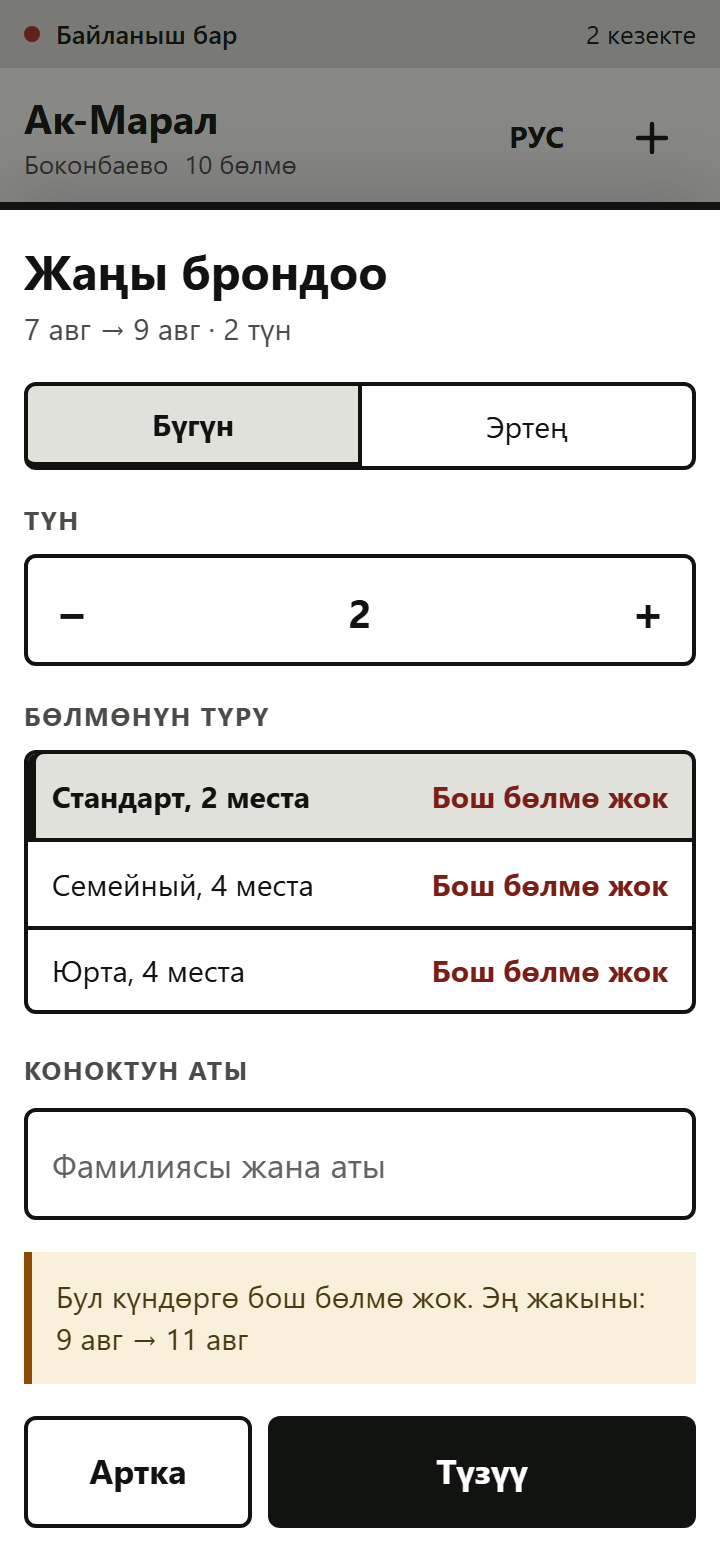
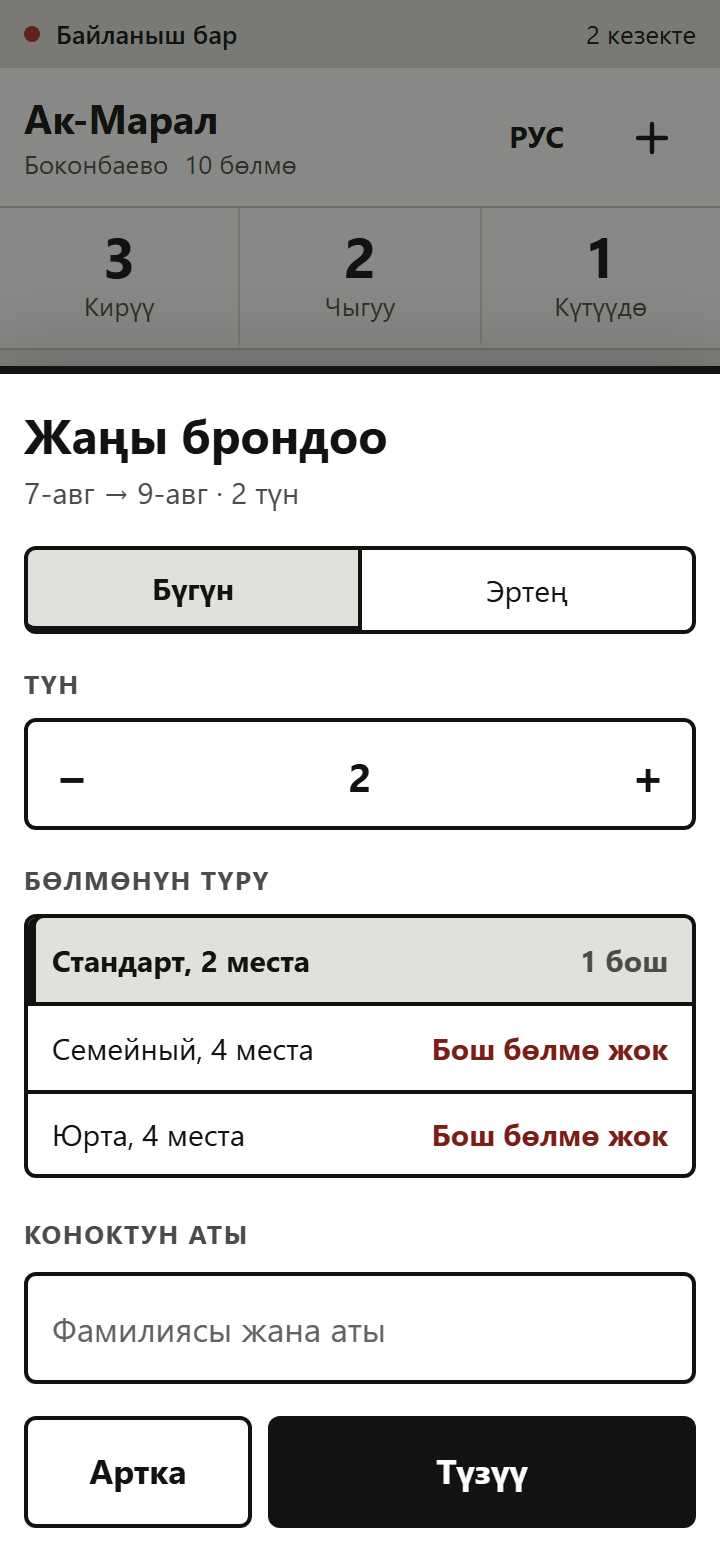
feat(web): довести до состояния, показуемого владельцу
Три вещи, на которых показ непрограммисту разваливался.

1. ФЛАГ NUXT_PUBLIC_SHOW_API_GAPS, по умолчанию ВЫКЛЮЧЕН.
   Блоки, которые нечем реализовать («Документы», «Продлить», «Ранний
   выезд», «Другой номер»), больше не рисуются вовсе. Раньше владелец
   видел серые кнопки с текстом «PATCH /api/bookings/:id не существует» —
   это надпись для разработчика внутри продукта, и читается она как
   поломка. Прятать их дизайн разрешает: когда экран ничего не требует,
   он ничего и не обещает.
   Режим разбора включается NUXT_PUBLIC_SHOW_API_GAPS=1 и работает как
   прежде. Список пробелов в обоих случаях живёт в docs/WEB-API-GAPS.md.

2. ДЕМО-ФИКСТУРЫ: пиковая ночь сдвинута с «завтра» на «послезавтра».
   Шторка создания открывается с умолчанием «сегодня, 2 ночи», то есть
   окном [0, +2). Пока полностью занята была ночь +1, это окно НИКОГДА
   не имело свободных номеров, и главный сценарий продукта с порога
   упирался в «Свободных номеров нет». Теперь окно по умолчанию находит
   номер 4, а пиковая ночь по-прежнему видна в «Ночах» и «Сетке».
   Счётчики «Сегодня» (3 заезда, 2 выезда, 1 ждёт) и стык в номере 3
   сохранены без изменений.

3. ФОРМАТ ДАТЫ ЛОКАЛИЗОВАН. Порядок и разделитель заданы шаблоном в
   словаре (common.datePattern), а не склейкой в коде: в кыргызском число
   пишется с порядковым дефисом, и зашитый пробел выдавал русскую форму
   на кыргызском экране. Теперь «7 авг» и «Пятница, 7 августа» против
   «7-авг» и «Жума, 7-август».
[…]

diff --git a/apps/web/fixtures/demo.ts b/apps/web/fixtures/demo.ts
@@ -21,7 +21,14 @@
  *    · сегодня 1 ожидает решения, 2 выезда, 3 заезда;
  *    · в номере 3 сегодня СТЫК — Ким Мария выезжает, Chen Wei заезжает,
  *      и это не конфликт: [checkIn, checkOut);
- *    · ночь «завтра» занята полностью, 0 свободных из 10.
+ *    · пиковая ночь «послезавтра» занята полностью, 0 свободных из 10.
+ *
+ *  Почему пик именно на послезавтра, а не на завтра. Шторка создания брони
+ *  открывается с умолчанием «сегодня, 2 ночи», то есть окном [0, +2).
+ *  Когда полностью занята была ночь +1, это окно НИКОГДА не имело
+ *  свободных номеров, и главный сценарий продукта с порога упирался
+ *  в «Свободных номеров нет». Пик сдвинут на +2: окно по умолчанию
+ *  находит номер 4, а пиковая ночь по-прежнему видна в «Ночах» и «Сетке».
  *  Даты заданы смещением от сегодняшнего дня, а не константами, иначе
  *  демонстрация протухает на следующие сутки.
  * ───────────────────────────────────────────────────────────────────────── */
@@ -106,20 +113,22 @@ export const demoRoomTypes: RoomType[] = ROOM_TYPES
 type Seed = [string, string, number, number, BookingStatus, string]
 
 const SEED: Seed[] = [
-	["Сыдыков Айбек", "1", -2, 2, "CHECKED_IN", "manual"],
+	["Сыдыков Айбек", "1", -2, 4, "CHECKED_IN", "manual"],
 	// Единственная бронь, ждущая решения. Пришла из Telegram-бота.
 	["Петров Игорь", "2", 0, 1, "HOLD", "bot"],
 	["Осмонов Бакыт", "2", 1, 4, "CONFIRMED", "manual"],
 	// Ким выезжает сегодня, Chen заезжает сегодня в ТОТ ЖЕ номер 3 — стык.
 	["Ким Мария", "3", -3, 0, "CHECKED_IN", "manual"],
 	["Chen Wei", "3", 0, 3, "CONFIRMED", "manual"],
+	// Номер 4 освобождается сегодня и занимается только послезавтра —
+	// это тот самый номер, который находит шторка создания по умолчанию.
 	["Ибраимова Айгүл", "4", -2, 0, "CHECKED_IN", "manual"],
-	["Мамбетова Асель", "4", 1, 5, "CONFIRMED", "manual"],
+	["Мамбетова Асель", "4", 2, 6, "CONFIRMED", "manual"],
 	["Жумабаев Асан", "5", -1, 3, "CHECKED_IN", "manual"],
 	["Ли Наталья", "6", 0, 4, "CONFIRMED", "manual"],
 	["Familie Weber", "7", -1, 5, "CHECKED_IN", "manual"],
-	["Wang Jing", "8", -3, 2, "CHECKED_IN", "manual"],
-	["Асанова Гүлнара", "Ю1", 0, 2, "CONFIRMED", "manual"],
+	["Wang Jing", "8", -3, 4, "CHECKED_IN", "manual"],
+	["Асанова Гүлнара", "Ю1", 0, 4, "CONFIRMED", "manual"],
 	["Токтогулов Эрлан", "Ю2", 1, 4, "CONFIRMED", "manual"],
 ]
 

diff --git a/apps/web/pages/booking/[id].vue b/apps/web/pages/booking/[id].vue
@@ -25,6 +25,9 @@ import { formatMoney } from "~/utils/money"
  */
 const route = useRoute()
 const { t } = useI18n()
+/* Заблокированные API блоки показываются только при разборе. По умолчанию
+   их нет вовсе: экран, который ничего не может, ничего и не обещает. */
+const showGaps = useRuntimeConfig().public.showApiGaps
 const { dateRange } = useDateText()
 const { byId, changeStatus } = useBookings()
 
@@ -123,24 +126,28 @@ async function doCancel() {
         </li>
       </ol>
 
-      <!-- Блок на месте, но нерабочий: признака документа в схеме нет -->
-      <div class="docs">
-        <div class="docs__text">
-          <p class="docs__label">{{ t('card.documents') }}</p>
-          <p class="docs__value">{{ t('card.documentsUnknown') }}</p>
+      <!-- Признака документа в схеме нет: блок виден только при разборе -->
+      <template v-if="showGaps">
+        <div class="docs">
+          <div class="docs__text">
+            <p class="docs__label">{{ t('card.documents') }}</p>
+            <p class="docs__value">{{ t('card.documentsUnknown') }}</p>
+          </div>
+          <NcButton variant="secondary" size="sm" disabled>{{ t('card.mark') }}</NcButton>
         </div>
-        <NcButton variant="secondary" size="sm" disabled>{{ t('card.mark') }}</NcButton>
-      </div>
-      <p class="blocked">{{ t('card.blockedDocuments') }}</p>
+        <p class="blocked">{{ t('card.blockedDocuments') }}</p>
+      </template>
 
       <div class="actions">
-        <NcButton variant="secondary" size="md" align="start" block disabled>
-          {{ t('card.extend') }}
-        </NcButton>
-        <NcButton variant="secondary" size="md" align="start" block disabled>
-          {{ t('card.earlyCheckout') }}
-        </NcButton>
-        <p class="blocked">{{ t('card.blockedDates') }}</p>
+        <template v-if="showGaps">
+          <NcButton variant="secondary" size="md" align="start" block disabled>
+            {{ t('card.extend') }}
+          </NcButton>
+          <NcButton variant="secondary" size="md" align="start" block disabled>
+            {{ t('card.earlyCheckout') }}
+          </NcButton>
+          <p class="blocked">{{ t('card.blockedDates') }}</p>
+        </template>
 
         <NcButton
           v-if="booking.status === 'CHECKED_IN'"

diff --git a/apps/web/composables/useDateText.ts b/apps/web/composables/useDateText.ts
@@ -17,10 +17,19 @@ export function useDateText() {
 		return item ? rt(item as never) : ""
 	}
 
-	/** «7 авг» */
+	/**
+	 * «7 авг» по-русски, «7-авг» по-кыргызски.
+	 *
+	 * Порядок и разделитель заданы ШАБЛОНОМ в словаре, а не склейкой в коде:
+	 * в кыргызском число пишется с порядковым дефисом («7-август»), и
+	 * зашитый пробел выдавал бы русскую форму на кыргызском экране.
+	 */
 	function shortDate(value: string): string {
 		const day = toDay(value)
-		return `${dayNumber(day)} ${fromList("common.monthsShort", monthIndex(day))}`
+		return t("common.datePattern.short", {
+			d: dayNumber(day),
+			m: fromList("common.monthsShort", monthIndex(day)),
+		})
 	}
 
 	/** «7 авг → 9 авг». Стрелка читается как полуинтервал: выехал — освободил. */
@@ -28,12 +37,14 @@ export function useDateText() {
 		return `${shortDate(from)} → ${shortDate(to)}`
 	}
 
-	/** «Пятница, 7 августа» */
+	/** «Пятница, 7 августа» по-русски, «Жума, 7-август» по-кыргызски. */
 	function longDay(value: string): string {
 		const day = toDay(value)
-		const weekday = fromList("common.weekdays", dayOfWeek(day))
-		const month = fromList("common.monthsGenitive", monthIndex(day))
-		return `${weekday}, ${dayNumber(day)} ${month}`
+		return t("common.datePattern.long", {
+			d: dayNumber(day),
+			m: fromList("common.monthsLong", monthIndex(day)),
+			w: fromList("common.weekdays", dayOfWeek(day)),
+		})
 	}
 
 	/** «Пт» */

diff --git a/apps/web/nuxt.config.ts b/apps/web/nuxt.config.ts
@@ -39,6 +39,13 @@ export default defineNuxtConfig({
 			// Включён по умолчанию, пока рядом нет поднятого бэкенда.
 			// Выключение: NUXT_PUBLIC_DEMO=0
 			demo: process.env.NUXT_PUBLIC_DEMO !== "0",
+			// Показывать ли блоки, которые нечем реализовать против текущего
+			// API: «Документы», «Продлить», «Ранний выезд», «Другой номер».
+			// ВЫКЛЮЧЕНО по умолчанию: владелец гостевого дома не должен читать
+			// «PATCH /api/bookings/:id не существует» — он прочтёт это как
+			// поломку. Включается для разбора: NUXT_PUBLIC_SHOW_API_GAPS=1
+			// Список пробелов в любом случае живёт в docs/WEB-API-GAPS.md.
+			showApiGaps: process.env.NUXT_PUBLIC_SHOW_API_GAPS === "1",
 		},
 	},
 	i18n: {

diff --git a/apps/web/pages/queue.vue b/apps/web/pages/queue.vue
@@ -22,6 +22,7 @@ const { t } = useI18n()
 const { items, broken, load, retry, discard } = useQueue()
 const { online, pending } = useSyncState()
 const { flushQueue } = useApi()
+const showGaps = useRuntimeConfig().public.showApiGaps
 
 await load()
 
@@ -110,7 +111,9 @@ async function sendNow() {
           {{ t('queue.retry') }}
         </NcButton>
       </div>
-      <p v-if="item.state === 'rejected'" class="blocked">{{ t('queue.blockedOtherRoom') }}</p>
+      <p v-if="showGaps && item.state === 'rejected'" class="blocked">
+        {{ t('queue.blockedOtherRoom') }}
+      </p>
     </article>
   </main>
 
